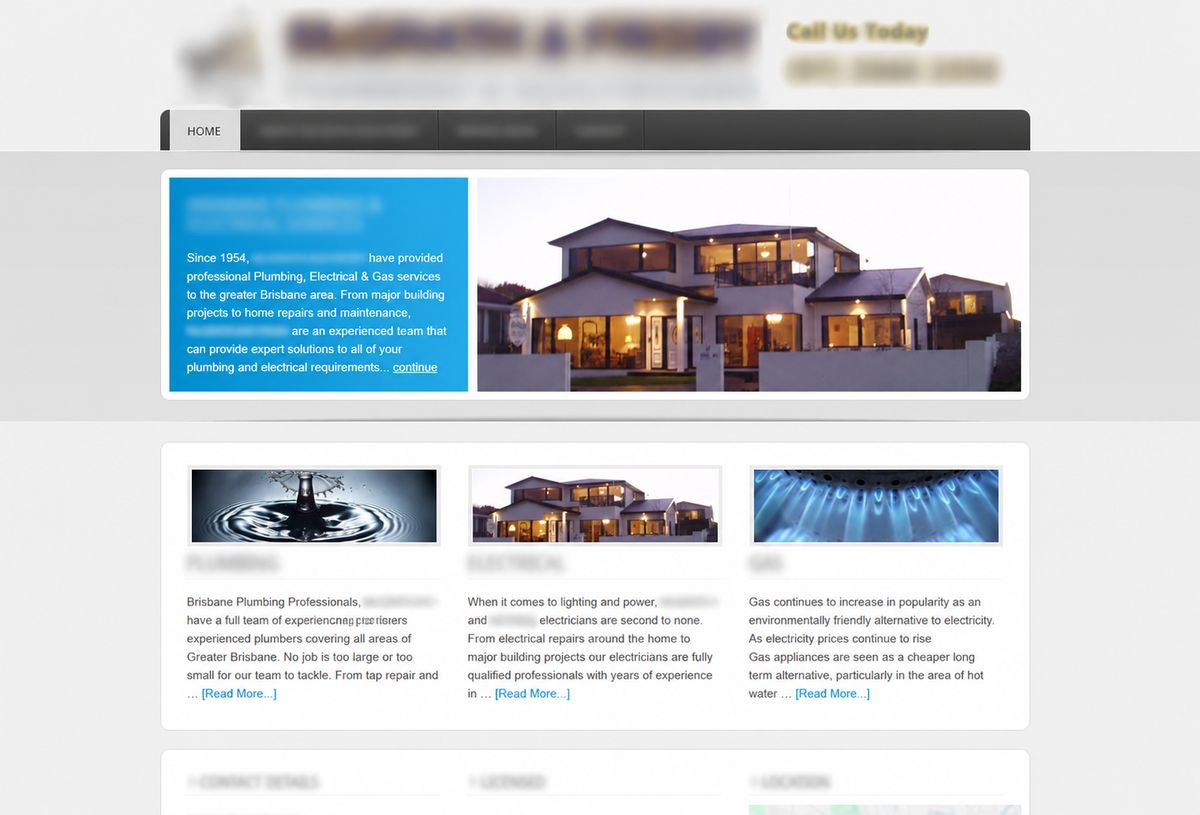
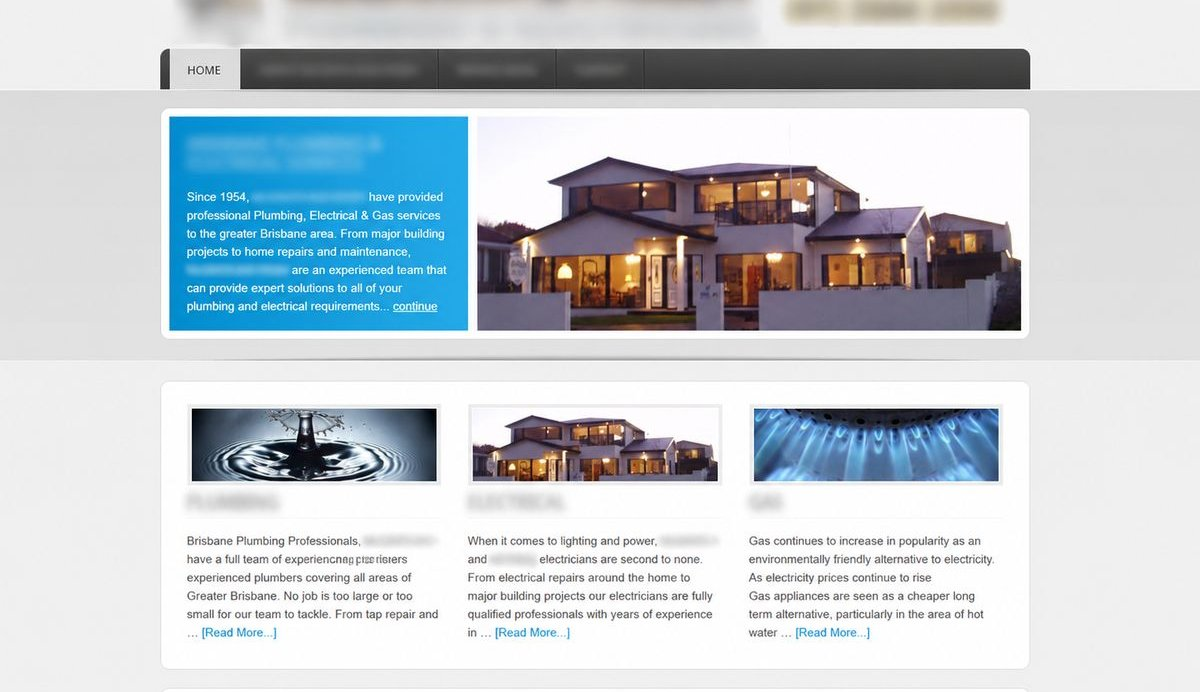
Add files via upload

diff --git a/index.html b/index.html
@@ -356,25 +356,23 @@
       <div class="review-card marquee-card review-featured">
         <div class="mp2-wrap"><div class="mp2-browser">
 <div class="mp2-bar"><div class="mp2-dots"><span></span><span></span><span></span></div><div class="mp2-url">chriscarusocreations.com.au</div></div>
-<div class="mp2-site" style="background:#0d0d0d">
-<div class="mp2-nav" style="background:transparent;position:relative;z-index:2;border-bottom:1px solid rgba(255,255,255,.07)">
-  <span class="mp2-brand" style="color:#fff;font-weight:900;letter-spacing:-.03em;font-size:11px">Chris Caruso Creations</span>
-  <div class="mp2-navlinks"><span style="color:rgba(255,255,255,.4)">Services</span><span style="color:rgba(255,255,255,.4)">Portfolio</span><span style="color:rgba(255,255,255,.4)">Contact</span></div>
-  <div class="mp2-cta-nav" style="background:#00E5FF;color:#000;border-radius:20px">Get a Quote</div>
+<div class="mp2-site" style="background:#0a0a0a">
+<div class="mp2-nav" style="background:rgba(8,8,8,.97);border-bottom:1px solid rgba(255,255,255,.08);padding:9px 14px">
+  <span style="font-size:10px;font-weight:900;color:#fff;letter-spacing:.08em">CC <span style="color:#c9a84c">CHRIS CARUSO</span> <span style="color:rgba(255,255,255,.4);font-weight:400;font-size:8px">CREATIONS</span></span>
+  <div class="mp2-navlinks"><span style="color:rgba(255,255,255,.4);font-size:8px">Our Work</span><span style="color:rgba(255,255,255,.4);font-size:8px">Services</span><span style="color:rgba(255,255,255,.4);font-size:8px">About</span><span style="color:rgba(255,255,255,.4);font-size:8px">Contact</span></div>
+  <div style="border:1px solid #c9a84c;color:#c9a84c;font-size:8px;font-weight:700;padding:4px 12px;border-radius:2px;letter-spacing:.06em">GET A QUOTE</div>
 </div>
-<div style="background-image:linear-gradient(rgba(0,0,0,.5),rgba(0,0,0,.5)),url(https://images.unsplash.com/photo-1593784991095-a205069470b6?w=600&q=80);background-size:cover;background-position:center;padding:16px 14px 14px">
-  <div style="font-size:7px;color:#00E5FF;letter-spacing:.14em;font-weight:700;margin-bottom:6px;font-family:monospace">// CUSTOM AV · SOUTH AUSTRALIA</div>
-  <div style="font-size:17px;font-weight:900;color:#fff;line-height:1.05;letter-spacing:-.04em;max-width:210px">Custom AV &amp; Home Theatre</div>
-  <div style="font-size:8px;color:rgba(255,255,255,.5);margin:5px 0 10px;max-width:200px;line-height:1.5">Warehouse-direct installs · SA</div>
-  <div style="display:flex;gap:6px;align-items:center">
-    <div style="background:#00E5FF;color:#000;font-size:8px;font-weight:800;padding:6px 14px;border-radius:20px;letter-spacing:-.01em">Get a Quote →</div>
-    <div style="font-size:7px;color:rgba(255,255,255,.4)">No lock-in · Free quote</div>
+<div style="min-height:130px;background-image:linear-gradient(rgba(0,0,0,.45),rgba(0,0,0,.45)),url(https://images.unsplash.com/photo-1556909114-f6e7ad7d3136?w=600&q=80);background-size:cover;background-position:center;display:flex;align-items:center;justify-content:center;text-align:center;padding:20px 16px">
+  <div>
+    <div style="font-size:7px;color:#c9a84c;letter-spacing:.18em;font-weight:600;margin-bottom:8px;font-family:monospace">ADELAIDE'S PREMIER CABINETRY STUDIO</div>
+    <div style="font-size:16px;font-weight:900;color:#fff;line-height:1.05;letter-spacing:-.01em;text-transform:uppercase">CRAFTED WITH<br>PRECISION.</div>
+    <div style="font-size:16px;font-weight:900;line-height:1.05;letter-spacing:-.01em"><em style="color:#c9a84c;font-style:italic">Built</em> <span style="color:#fff">TO LAST.</span></div>
+    <div style="font-size:8px;color:rgba(255,255,255,.5);margin:8px auto;max-width:220px;line-height:1.5">Crafting exquisite cabinets for every space — custom kitchens, wardrobes, joinery and more.</div>
+    <div style="display:flex;gap:8px;justify-content:center;margin-top:10px">
+      <div style="border:1px solid rgba(255,255,255,.4);color:#fff;font-size:8px;font-weight:600;padding:5px 14px;letter-spacing:.06em">VIEW OUR WORK</div>
+      <div style="background:#c9a84c;color:#000;font-size:8px;font-weight:700;padding:5px 14px;letter-spacing:.06em">CALL 0455 984 461</div>
+    </div>
   </div>
-</div>
-<div style="background:#111;padding:6px 12px;display:flex;gap:12px;border-top:1px solid rgba(255,255,255,.05)">
-  <div style="font-size:7px;color:rgba(255,255,255,.35)">📍 Warehouse-direct installs</div>
-  <div style="font-size:7px;color:rgba(255,255,255,.35)">⭐ 5.0 Google</div>
-  <div style="font-size:7px;color:rgba(255,255,255,.35)">✓ Licensed &amp; Insured</div>
 </div>
 </div></div></div>
         <div class="review-stars">★★★★★</div>
@@ -583,25 +581,23 @@
       <div class="review-card marquee-card review-featured">
         <div class="mp2-wrap"><div class="mp2-browser">
 <div class="mp2-bar"><div class="mp2-dots"><span></span><span></span><span></span></div><div class="mp2-url">chriscarusocreations.com.au</div></div>
-<div class="mp2-site" style="background:#0d0d0d">
-<div class="mp2-nav" style="background:transparent;position:relative;z-index:2;border-bottom:1px solid rgba(255,255,255,.07)">
-  <span class="mp2-brand" style="color:#fff;font-weight:900;letter-spacing:-.03em;font-size:11px">Chris Caruso Creations</span>
-  <div class="mp2-navlinks"><span style="color:rgba(255,255,255,.4)">Services</span><span style="color:rgba(255,255,255,.4)">Portfolio</span><span style="color:rgba(255,255,255,.4)">Contact</span></div>
-  <div class="mp2-cta-nav" style="background:#00E5FF;color:#000;border-radius:20px">Get a Quote</div>
+<div class="mp2-site" style="background:#0a0a0a">
+<div class="mp2-nav" style="background:rgba(8,8,8,.97);border-bottom:1px solid rgba(255,255,255,.08);padding:9px 14px">
+  <span style="font-size:10px;font-weight:900;color:#fff;letter-spacing:.08em">CC <span style="color:#c9a84c">CHRIS CARUSO</span> <span style="color:rgba(255,255,255,.4);font-weight:400;font-size:8px">CREATIONS</span></span>
+  <div class="mp2-navlinks"><span style="color:rgba(255,255,255,.4);font-size:8px">Our Work</span><span style="color:rgba(255,255,255,.4);font-size:8px">Services</span><span style="color:rgba(255,255,255,.4);font-size:8px">About</span><span style="color:rgba(255,255,255,.4);font-size:8px">Contact</span></div>
+  <div style="border:1px solid #c9a84c;color:#c9a84c;font-size:8px;font-weight:700;padding:4px 12px;border-radius:2px;letter-spacing:.06em">GET A QUOTE</div>
 </div>
-<div style="background-image:linear-gradient(rgba(0,0,0,.5),rgba(0,0,0,.5)),url(https://images.unsplash.com/photo-1593784991095-a205069470b6?w=600&q=80);background-size:cover;background-position:center;padding:16px 14px 14px">
-  <div style="font-size:7px;color:#00E5FF;letter-spacing:.14em;font-weight:700;margin-bottom:6px;font-family:monospace">// CUSTOM AV · SOUTH AUSTRALIA</div>
-  <div style="font-size:17px;font-weight:900;color:#fff;line-height:1.05;letter-spacing:-.04em;max-width:210px">Custom AV &amp; Home Theatre</div>
-  <div style="font-size:8px;color:rgba(255,255,255,.5);margin:5px 0 10px;max-width:200px;line-height:1.5">Warehouse-direct installs · SA</div>
-  <div style="display:flex;gap:6px;align-items:center">
-    <div style="background:#00E5FF;color:#000;font-size:8px;font-weight:800;padding:6px 14px;border-radius:20px;letter-spacing:-.01em">Get a Quote →</div>
-    <div style="font-size:7px;color:rgba(255,255,255,.4)">No lock-in · Free quote</div>
+<div style="min-height:130px;background-image:linear-gradient(rgba(0,0,0,.45),rgba(0,0,0,.45)),url(https://images.unsplash.com/photo-1556909114-f6e7ad7d3136?w=600&q=80);background-size:cover;background-position:center;display:flex;align-items:center;justify-content:center;text-align:center;padding:20px 16px">
+  <div>
+    <div style="font-size:7px;color:#c9a84c;letter-spacing:.18em;font-weight:600;margin-bottom:8px;font-family:monospace">ADELAIDE'S PREMIER CABINETRY STUDIO</div>
+    <div style="font-size:16px;font-weight:900;color:#fff;line-height:1.05;letter-spacing:-.01em;text-transform:uppercase">CRAFTED WITH<br>PRECISION.</div>
+    <div style="font-size:16px;font-weight:900;line-height:1.05;letter-spacing:-.01em"><em style="color:#c9a84c;font-style:italic">Built</em> <span style="color:#fff">TO LAST.</span></div>
+    <div style="font-size:8px;color:rgba(255,255,255,.5);margin:8px auto;max-width:220px;line-height:1.5">Crafting exquisite cabinets for every space — custom kitchens, wardrobes, joinery and more.</div>
+    <div style="display:flex;gap:8px;justify-content:center;margin-top:10px">
+      <div style="border:1px solid rgba(255,255,255,.4);color:#fff;font-size:8px;font-weight:600;padding:5px 14px;letter-spacing:.06em">VIEW OUR WORK</div>
+      <div style="background:#c9a84c;color:#000;font-size:8px;font-weight:700;padding:5px 14px;letter-spacing:.06em">CALL 0455 984 461</div>
+    </div>
   </div>
-</div>
-<div style="background:#111;padding:6px 12px;display:flex;gap:12px;border-top:1px solid rgba(255,255,255,.05)">
-  <div style="font-size:7px;color:rgba(255,255,255,.35)">📍 Warehouse-direct installs</div>
-  <div style="font-size:7px;color:rgba(255,255,255,.35)">⭐ 5.0 Google</div>
-  <div style="font-size:7px;color:rgba(255,255,255,.35)">✓ Licensed &amp; Insured</div>
 </div>
 </div></div></div>
         <div class="review-stars">★★★★★</div>

diff --git a/style.css b/style.css
@@ -871,11 +871,14 @@ footer ul a:hover { color: var(--white); }
   overflow: hidden;
   border: 1px solid var(--border);
   line-height: 0;
+  aspect-ratio: 1200 / 692;
 }
 .ba-img-wrap img {
   width: 100%;
-  height: auto;
+  height: 100%;
   display: block;
+  object-fit: cover;
+  object-position: center top;
 }
 .ba-img-after {
   border-color: rgba(0,229,255,.2);
@@ -2211,17 +2214,17 @@ footer ul a:hover { color: var(--white); }
 .mp2-browser {
   border-radius: 10px;
   overflow: hidden;
-  border: 1px solid rgba(255,255,255,.1);
-  box-shadow: 0 8px 32px rgba(0,0,0,.5);
+  border: 1px solid rgba(255,255,255,.12);
+  box-shadow: 0 8px 40px rgba(0,0,0,.6), inset 0 1px 0 rgba(255,255,255,.05);
   font-family: -apple-system, BlinkMacSystemFont, 'Segoe UI', sans-serif;
 }
 .mp2-bar {
-  background: #1e1e1e;
+  background: #1c1c1c;
   padding: 7px 10px;
   display: flex;
   align-items: center;
   gap: 8px;
-  border-bottom: 1px solid rgba(255,255,255,.06);
+  border-bottom: 1px solid rgba(255,255,255,.07);
 }
 .mp2-dots { display: flex; gap: 5px; flex-shrink: 0; }
 .mp2-dots span { width: 8px; height: 8px; border-radius: 50%; }
